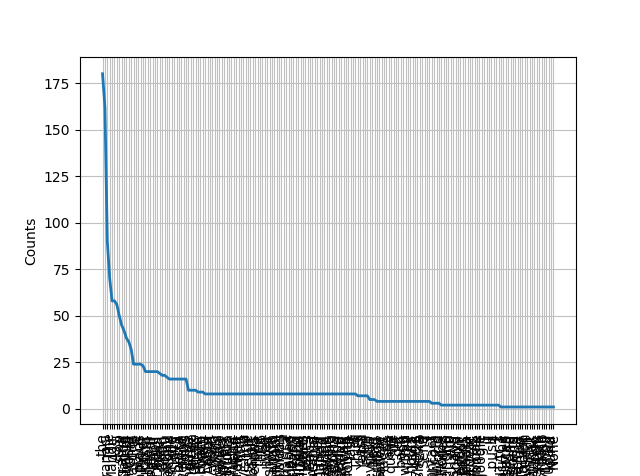
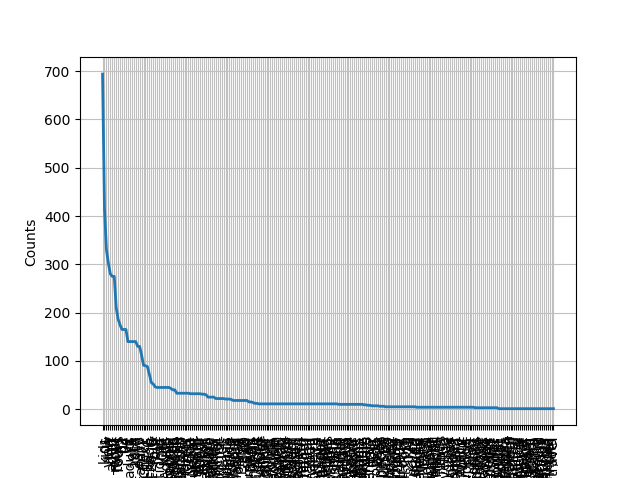
a

diff --git a/tokenizer.py b/tokenizer.py
@@ -85,7 +85,7 @@ def Removestopword(data):
     for token in tokens:
         if token in stops:
             tokens.remove(token)
-    return tokens
+    return token
 def frerstopword(data):
 # this fuction produce the frequencies of words(after removal of stop words)
     text=Removestopword(data)
@@ -98,6 +98,7 @@ def Rplot(data):
     text=nltk.FreqDist(words)
    # print(text.values())
    # print(text.keys())
+    print(text)
     n=len(text)
     pltt=text.plot(n,cumulative=False)
     return pltt
@@ -122,7 +123,7 @@ def trainingset():
     m=t.training()
     return m
     x=trainingset()
-    print(x)   
+    print(x)
 def intersectionset(data):
 #this fuction produce the intersection of  training set and getset
     s1=trainingset()
@@ -160,7 +161,7 @@ def interplot(data):
     words=freinterset(data)
     text=nltk.FreqDist(words)
    # print(text.values())
-   # print(text.keys())
+   # print(text.key.s())
     n=len(text)
     pltt=text.plot(n,cumulative=False)
     return pltt
@@ -208,9 +209,10 @@ def getsaveFullplot(data,trainingset):
 #y=dict(data)
 #y=interplot2(data)
 #print(y)
-#data=dd.downloadUrl(url)
-#y=Rplot(data)
-#print(y)
+url = "https://varanasi-software-junction.business.site/"
+data=dd.downloadUrl(url)
+y=Rplot(data)
+print(y)
 #text=stopwords(data)
 #data='''My My name . name is vishal'''
 #m=wordswithfrequencies(data)

diff --git a/getlinks.py b/getlinks.py
@@ -38,8 +38,8 @@ def get_all_website_links(url):
             continue
         # join the URL if it's relative (not absolute link)
         href = urljoin(url, href)
-        parsed_href = urlparse(href)
-        # remove URL GET parameters, URL fragments, etc.
+        parsed_href = urlparse(href) # URL fragments, etc.
+        # remove URL GET parameters,
         href = parsed_href.scheme + "://" + parsed_href.netloc + parsed_href.path
         if not is_valid(href):
             # not a valid URL

diff --git a/stop.py b/stop.py
@@ -4,6 +4,7 @@ from nltk.corpus import stopwords as sw
 text=''' The ABCD lesson. The apple was placed in a ball and the cat was playing with it.
 The dog hated the cat but loved the ball, he did not care for the apple. An apple is different from the apple, a apple is wrong.
 '''
+text = text.lower()
 stops = sw.words('english')
 tokens=wt(text)
 print("Before removal\n")

diff --git a/Analyzer Use.py b/Analyzer Use.py
@@ -5,7 +5,8 @@ import Training as t
 from flask import Flask,render_template
 app = Flask(__name__)
 #d={2:"Mumbai",1:"Jaipur",3:"Varanasi"}
-url="http://varanasikshetra.com"
+#url="http://varanasikshetra.com"
+url="http://rudra.tours"
 data=dd.downloadUrl(url)
 divs=an.GetDivs(data)
 pics=an.GetImages(data,url)

diff --git a/scraperbasics.py b/scraperbasics.py
@@ -21,7 +21,7 @@ html="""
 """
 #print(html)
 scraper = bs(html, 'html.parser')
-title=scraper.find_all("title")
+title=scraper.find_all("body")
 item=title[0]
 print(item)
 print(item.text)

diff --git a/downloader.py b/downloader.py
@@ -27,5 +27,7 @@ def SaveImageFromUrlToFile(imageurl,filename):
 
 
 
-
+#url="https://www.codechef.com/"
+#data=downloadUrl(url)
+#print(data)
     
